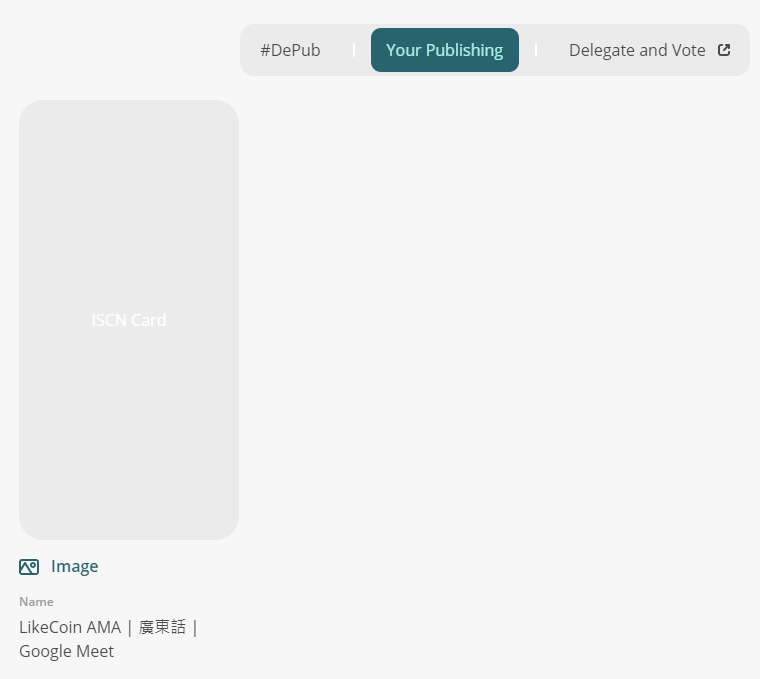
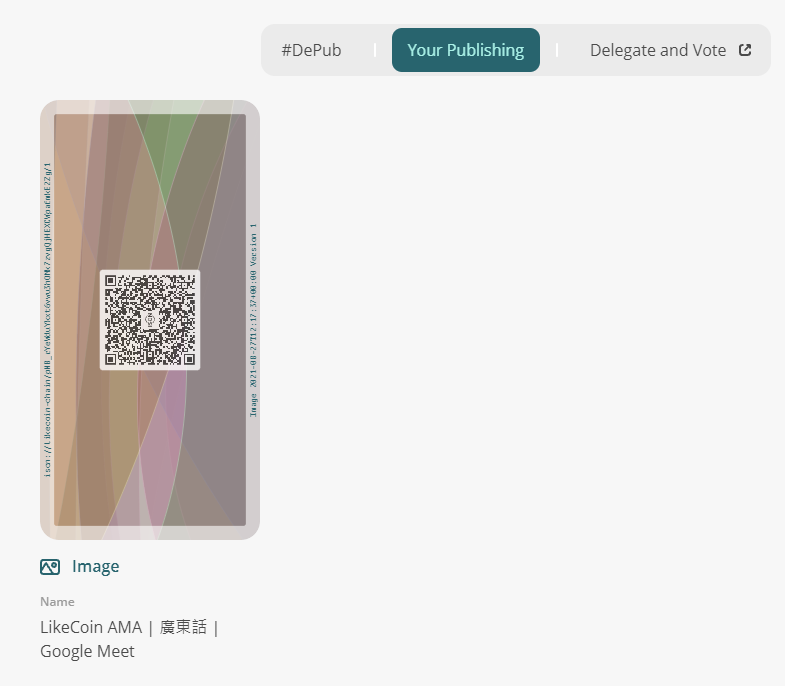
GitBook: [en] one page and 2 assets modified

diff --git a/general-guides/decentralized-publishing/app.like.co.md b/general-guides/decentralized-publishing/app.like.co.md
@@ -12,7 +12,7 @@ Users can also check an ISCN record and it's details in app.like.co.
 
 ![](../../.gitbook/assets/app.like.co.png)
 
-app.like.co is still under development but users can use the prototype to try out and register his/her ISCN.
+ Users can use [app.like.co](https://app.like.co/) to try out and register his/her ISCN.
 
 ### Step 1: Login app.like.co
 
@@ -79,9 +79,9 @@ ISCN with a unique content fingerprint is ready.
 
 Back to app.like.co homepage, click **\[Your Publishing\]** to list all your publications.
 
-![](https://gblobscdn.gitbook.com/assets%2F-LL4mdaVjNgL6A1--PV0%2F-MiBIBQ7KdFzfwN8M-Th%2F-MiBrLPsMJ5qilDTUQka%2Fiscn%20register%2010.png?alt=media&token=c0f1b33c-60d1-428b-b116-0f7cab96ef96)
+![](../../.gitbook/assets/iscn-register-10.png)
 
 Click on a particular piece to check out the metadata and the original file.
 
-![](https://gblobscdn.gitbook.com/assets%2F-LL4mdaVjNgL6A1--PV0%2F-MiBIBQ7KdFzfwN8M-Th%2F-MiBrSx8ySFu2Z-DfEgE%2Fiscn%20register%2011.png?alt=media&token=dfb44d02-75bf-4506-9021-fa21f9c95046)
+![](../../.gitbook/assets/iscn-register-11.png)
 
